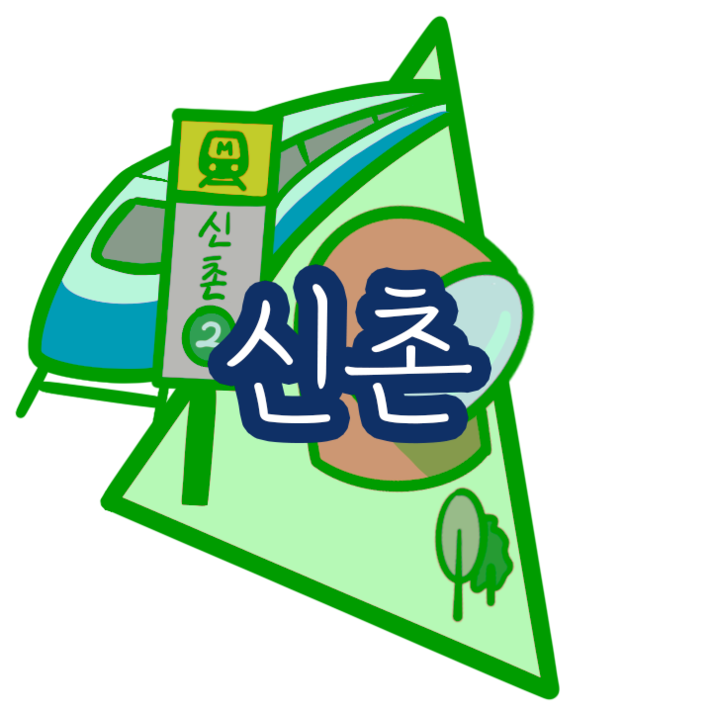
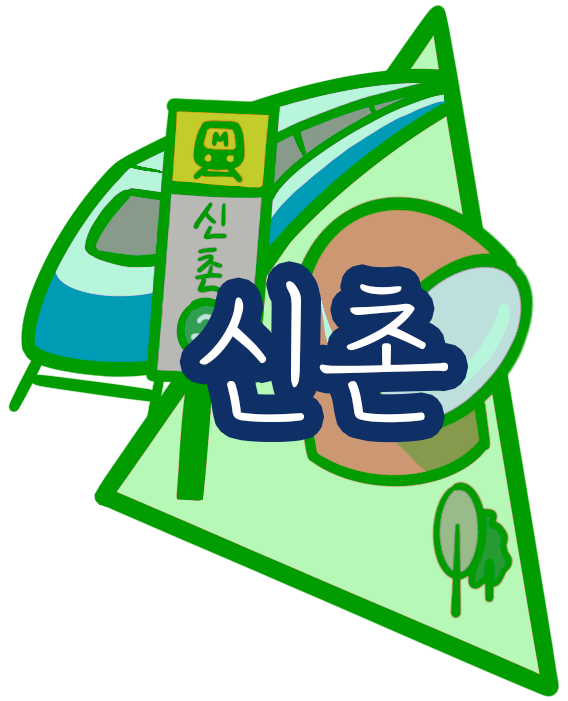
fix/홈화면 지도, 테마리스트 수정

diff --git a/templates/home.html b/templates/home.html
@@ -27,23 +27,23 @@
     <div class="map">
       <div class="criteria">
         <a href="{{url_for('restaurant_list', location='교내')}}" class="mapbtn_sch">
-          <img class="sch" height="150px" src="/static/교내.png" onmouseover="this.src='/static/교내호버.png'" onmouseout="this.src='/static/교내.png'">
+          <img height="160px" src="/static/교내.png" onmouseover="this.src='/static/교내호버.png'" onmouseout="this.src='/static/교내.png'">
         </a>
 
         <a href="{{url_for('restaurant_list', location='신촌')}}" class="mapbtn_sin">
-          <img class="sin_img" height="150px" src="/static/신촌.png" onmouseover="this.src='/static/신촌호버.png'" onmouseout="this.src='/static/신촌.png'">
+          <img height="135px" src="/static/신촌.png" onmouseover="this.src='/static/신촌호버.png'" onmouseout="this.src='/static/신촌.png'">
         </a>
 
         <a href="{{url_for('restaurant_list', location='정문')}}"  class="mapbtn_idae" />
-        <img class="idae_img" height="80px" src="/static/이대.png" onmouseover="this.src='/static/정문.png'" onmouseout="this.src='/static/이대.png'">
+        <img height="90px" src="/static/정문.png" onmouseover="this.src='/static/정문호버.png'" onmouseout="this.src='/static/정문.png'">
       </a>
 
         <a href="{{url_for('restaurant_list', location='후문')}}" class="mapbtn_back">
-          <img class="back_img" height="140px" src="/static/후문.png" onmouseover="this.src='/static/후문호버.png'" onmouseout="this.src='/static/후문.png'">
+          <img height="150px" src="/static/후문.png" onmouseover="this.src='/static/후문호버.png'" onmouseout="this.src='/static/후문.png'">
         </a>
 
         <a href="{{url_for('restaurant_list', location='아현')}}" class="mapbtn_ahyeon">
-          <img class="ahyeon_img" src="/static/아현.png" height="150px" onmouseover="this.src='/static/아현 호버.png'" onmouseout="this.src='/static/아현.png'">
+          <img src="/static/아현.png" height="150px" onmouseover="this.src='/static/아현호버.png'" onmouseout="this.src='/static/아현.png'">
         </a>
 
         <!-- 맛집등록하기 버튼-->
@@ -177,9 +177,9 @@
   </div>
   <!-- 테마별 맛집 -->
   <div class="theme">
-    <ul class="themes">
-      <div class="theme-title">오늘의 맛집은 여깃화</div>
-      <li>
+    <div class="theme-title">오늘의 맛집은 여깃화</div>
+    <div class="cards">
+      <div class="card">
         <a href="/restaurant/themelist">
           <button class="theme-restaurant">
             <span class="theme-icon">
@@ -196,9 +196,9 @@
             >
           </button>
         </a>
-      </li>
+      </div>
 
-      <li>
+      <div class="card">
         <a href="/restaurant/themelist">
           <button class="theme-restaurant">
             <span class="theme-icon"
@@ -210,9 +210,9 @@
             <span class="theme-name">#카공하기_ <br />좋은_카페</span>
           </button>
         </a>
-      </li>
+      </div>
 
-      <li>
+      <div class="card">
         <a href="/restaurant/themelist">
           <button class="theme-restaurant">
             <span class="theme-icon"
@@ -224,9 +224,9 @@
             <span class="theme-name">#프로혼밥러_ <br />추천_맛집</span>
           </button>
         </a>
-      </li>
+      </div>
 
-      <li>
+      <div class="card">
         <a href="/restaurant/themelist">
           <button class="theme-restaurant">
             <span class="theme-icon"
@@ -238,9 +238,10 @@
             <span class="theme-name">#새내기_밥약은<br />_여기가_딱</span>
           </button>
         </a>
-      </li>
+        </div>
+      
 
-      <li>
+      <div class="card">
         <a href="/restaurant/themelist">
           <button class="theme-restaurant">
             <span class="theme-icon"
@@ -252,9 +253,9 @@
             <span class="theme-name">#이대_앞_<br />가성비_맛집</span>
           </button>
         </a>
-      </li>
+      </div>
 
-      <li>
+      <div class="card">
         <a href="/restaurant/themelist">
           <button class="theme-restaurant">
             <span class="theme-icon"
@@ -266,8 +267,8 @@
             <span class="theme-name">#회식_장소_<br />고민은_끝</span>
           </button>
         </a>
-      </li>
-    </ul>
+      </div>
+    </div>
   </div>
 </section>
 {% endblock %}

diff --git a/static/home.css b/static/home.css
@@ -88,64 +88,47 @@ body {
 .mapbtn_sch {
   position: absolute;
   top: -10px;
-  left: -75px;
+  left: -107px;
   z-index: 50;
-  clip-path: polygon(65% 0, 91% 0, 98% 16%, 100% 88%, 5% 100%, 0 77%, 19% 53%, 24% 32%, 31% 34%);
-}
-
-.sch_img {
-  clip-path: polygon(65% 0, 91% 0, 98% 16%, 100% 88%, 5% 100%, 0 77%, 19% 53%, 24% 32%, 31% 34%);
+  clip-path: polygon(6% 99%, 100% 86%, 91% 33%, 90% 24%, 91% 18%, 94% 10%, 91% 0, 76% 0, 68% 0, 62% 3%, 50% 18%, 44% 18%, 45% 27%, 34% 41%, 31% 34%, 24% 36%, 23% 43%, 25% 54%, 16% 63%, 8% 69%, 1% 72%, 0 80%, 3% 85%);
 }
 
 .mapbtn_sin {
   position: absolute;
-  right: 50px;
-  top: 25px;
-}
-
-.sin_img {
-  clip-path: polygon(67% 0, 72% 26%, 85% 36%, 76% 52%, 80% 100%, 10% 71%, 16% 60%, 0 50%, 16% 13%, 57% 6%);
+  right: 102px;
+  top: 42px;
+  clip-path: polygon(76% 0, 68% 8%, 55% 10%, 46% 13%, 37% 12%, 27% 13%, 27% 18%, 17% 23%, 9% 32%, 4% 44%, 2% 56%, 0 60%, 22% 59%, 13% 70%, 95% 99%, 100% 98%, 91% 53%, 95% 49%, 96% 39%, 87% 31%, 79% 0);
 }
 
 .mapbtn_idae {
   position: absolute;
-  top: 130px;
-  left: -65px;
-  height: 85px;
-}
-
-.idae_img{
-  clip-path: polygon(71% 2%, 100% 1%, 89% 85%, 68% 100%, 0 55%, 0 23%);
- 
+  top: 132px;
+  z-index: 100;
+  left: -95px;
+  clip-path: polygon(0 23%, 2% 55%, 64% 96%, 69% 83%, 74% 90%, 78% 61%, 82% 61%, 84% 48%, 87% 42%, 100% 3%, 83% 7%, 84% 0, 69% 1%, 69% 9%);
 }
 
 
 .mapbtn_back {
   position: absolute;
-  top: -37px;
-  left: -87px;
+  top: -34px;
+  left: -117px;
   z-index: 1;
-}
-
-.back_img {
-  clip-path: polygon(24% 0, 43% 3%, 100% 17%, 16% 99%, 0 51%);
+  clip-path: polygon(100% 19%, 14% 100%, 0% 43%, 22% 18%, 20% 16%, 17% 12%, 15% 8%, 17% 4%, 20% 0%, 27% 0, 32% 5%, 42% 0, 100% 17%);
 }
 
 .mapbtn_ahyeon {
   position: absolute;
-  top: -20px;
-  left: 70px;
+  top: -15px;
+  left: 40px;
+  clip-path: polygon(28% 99%, 73% 53%, 75% 56%, 81% 56%, 85% 52%, 94% 51%, 92% 35%, 100% 25%, 60% 16%, 60% 8%, 37% 9%, 37% 13%, 29% 10%, 29% 5%, 24% 1%, 14% 0, 10% 4%, 9% 7%, 2% 7%, 19% 71%);
 }
 
-
-.ahyeon_img {
-  clip-path: polygon(67% 11%, 100% 29%, 100% 66%, 28% 100%, 0 11%, 17% 0);
-}
 
 .add-restaurant {
   position: absolute;
   top: 220px;
-  left: 200px;
+  left: 190px;
 }
 
 .add-btn {
@@ -235,40 +218,35 @@ ul.categories>li {
 }
 
 .theme-title {
-  position: absolute;
-  left: 5%;
-  top: -20px;
-  font-size: 1.2vw;
+  font-size: 20px;
   color: white;
+  height: 30px;
+  width:50%;
 }
 
 .theme {
-  margin-top: 6vw;
-  width: 80vw;
-  height: 20vw;
+  margin-top: 80px;
   display: flex;
-  flex-direction: row;
-  justify-content: flex-end;
+  flex-direction: column;
+  align-items: center;
 }
 
-.themes {
+.cards {
   display: flex;
   flex-direction: row;
+  justify-content: center;
   flex-wrap: wrap;
-  justify-content: flex-start;
-  width: 70%;
-  position: relative;
+  width: 800px;
 }
 
-ul.themes>li {
-  padding: 1.2vw;
-  width:33%
+.card {
+  padding: 20px;
 }
 
 .theme-restaurant {
-  font-size: 1.2vw;
-  width: 15vw;
-  height: 8vw;
+  font-size: 16px;
+  width: 215px;
+  height: 115px;
   background-color: white;
   border: none;
   box-shadow: 0 3px 10px 0 rgba(0, 0, 0, 0.19);
